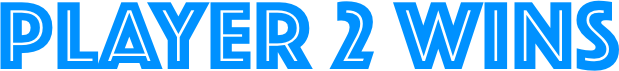
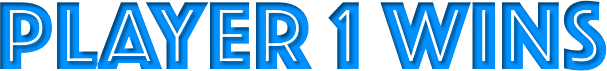
started game over dialog

diff --git a/dialog.cpp b/dialog.cpp
@@ -1,0 +1,52 @@
+#include "dialog.h"
+#include "ui_dialog.h"
+
+Dialog::Dialog(QWidget *parent) :
+    QDialog(parent),
+    ui(new Ui::Dialog)
+{
+    ui->setupUi(this);
+    setAttribute(Qt::WA_TranslucentBackground);
+    setWindowFlags(Qt::FramelessWindowHint);
+    setModal(true);
+
+    move(250,250);
+}
+
+Dialog::~Dialog()
+{
+    delete ui;
+}
+
+void Dialog::on_btn_MainMenu_clicked()
+{
+    slot_hide();
+    emit clk_Main();
+}
+
+void Dialog::on_btn_Quit_clicked()
+{
+    slot_hide();
+    emit clk_Quit();
+}
+
+void Dialog::slot_hide()
+{
+    this->hide();
+}
+
+void Dialog::slot_show(const int X)
+{
+    if(X==1)
+    {
+        ui->label->setPixmap(QPixmap(":/images/player1wins.png"));
+    }
+    else if(X==2)
+    {
+        ui->label->setPixmap(QPixmap(":/images/player2wins.png"));
+    }
+    else {
+        ui->label->setPixmap(QPixmap(":/images/paused.png"));
+    }
+    this->show();
+}

diff --git a/gamescreen.cpp b/gamescreen.cpp
@@ -408,20 +408,20 @@ void GameScreen::checkIfDestroyed()
         if(player1Ships[i]!=0)
             winPlayer2=false;
     }
-    if(winPlayer1){playerXWins(1);}
-    if(winPlayer2){playerXWins(2);}
+    if(winPlayer1){emit playerXWins(1);}
+    if(winPlayer2){emit playerXWins(2);}
 }
 
-void GameScreen::playerXWins(const int x)
-{
-    if(x==1)
-    {
-        ui->lbl_Player2->hide();
-    }
-    else {
-        ui->lbl_Player1->hide();
-    }
-}
+//void GameScreen::playerXWins(const int x)
+//{
+//    if(x==1)
+//    {
+//        ui->lbl_Player2->hide();
+//    }
+//    else {
+//        ui->lbl_Player1->hide();
+//    }
+//}
 
 void GameScreen::setVersus()
 {

diff --git a/mainwindow.cpp b/mainwindow.cpp
@@ -14,6 +14,7 @@ MainWindow::MainWindow(QWidget *parent) :
     versusSetup2 = new SetupScreen(2);
     game = new GameScreen;
     bot = new npc;
+    dialogGameover = new Dialog;
 
     //add screens to stacked widget
     stackedWidget = new QStackedWidget;
@@ -44,6 +45,9 @@ MainWindow::MainWindow(QWidget *parent) :
     //connect npc
     connect(singleplayerSetup,SIGNAL(moveNext(int,const matrix&)),bot,SLOT(getnpc()));
     connect(bot,SIGNAL(getdata(int,const matrix&)),game,SLOT(setGrid(int,const matrix&)));
+
+    //connect dialog
+    connect(game,SIGNAL(playerXWins(int)),dialogGameover,SLOT(slot_show(int)));
 
     setCentralWidget(stackedWidget);
 }

diff --git a/dialog.h b/dialog.h
@@ -1,0 +1,35 @@
+#ifndef DIALOG_H
+#define DIALOG_H
+
+#include <QDialog>
+
+namespace Ui {
+class Dialog;
+}
+
+class Dialog : public QDialog
+{
+    Q_OBJECT
+
+signals:
+    void clk_Main();
+    void clk_Quit();
+
+public slots:
+    void slot_hide();
+    void slot_show(const int X);
+
+public:
+    explicit Dialog(QWidget *parent = nullptr);
+    ~Dialog();
+
+private slots:
+    void on_btn_MainMenu_clicked();
+
+    void on_btn_Quit_clicked();
+
+private:
+    Ui::Dialog *ui;
+};
+
+#endif // DIALOG_H

diff --git a/gamescreen.h b/gamescreen.h
@@ -23,6 +23,8 @@ class GameScreen;
 class GameScreen : public QFrame
 {
     Q_OBJECT
+signals:
+    void playerXWins(const int x);
 
 public:
     /**
@@ -46,9 +48,6 @@ public:
 public slots:
     void setGrid(int player, const matrix& b);
     void setVersus();
-
-private slots:
-    void playerXWins(const int x);
 
 private:
     Ui::GameScreen *ui;

diff --git a/mainwindow.h b/mainwindow.h
@@ -8,6 +8,7 @@
 #include "gamescreen.h"
 #include "matrix.h"
 #include "npc.h"
+#include "dialog.h"
 
 namespace Ui {
 class MainWindow;
@@ -56,6 +57,7 @@ private:
     QFrame *versusSetup2 = nullptr;
     QFrame *game = nullptr;
     npc* bot = nullptr;
+    Dialog* dialogGameover = nullptr;
 };
 
 #endif // MAINWINDOW_H

diff --git a/mainmenu.cpp b/mainmenu.cpp
@@ -18,7 +18,6 @@ MainMenu::MainMenu(QWidget *parent) :
     frame->setLayout(layout);
     frame->setFixedSize(QSize(1000,690));
     frame->move(-14,0);
-
     frame->lower();
 }
 
